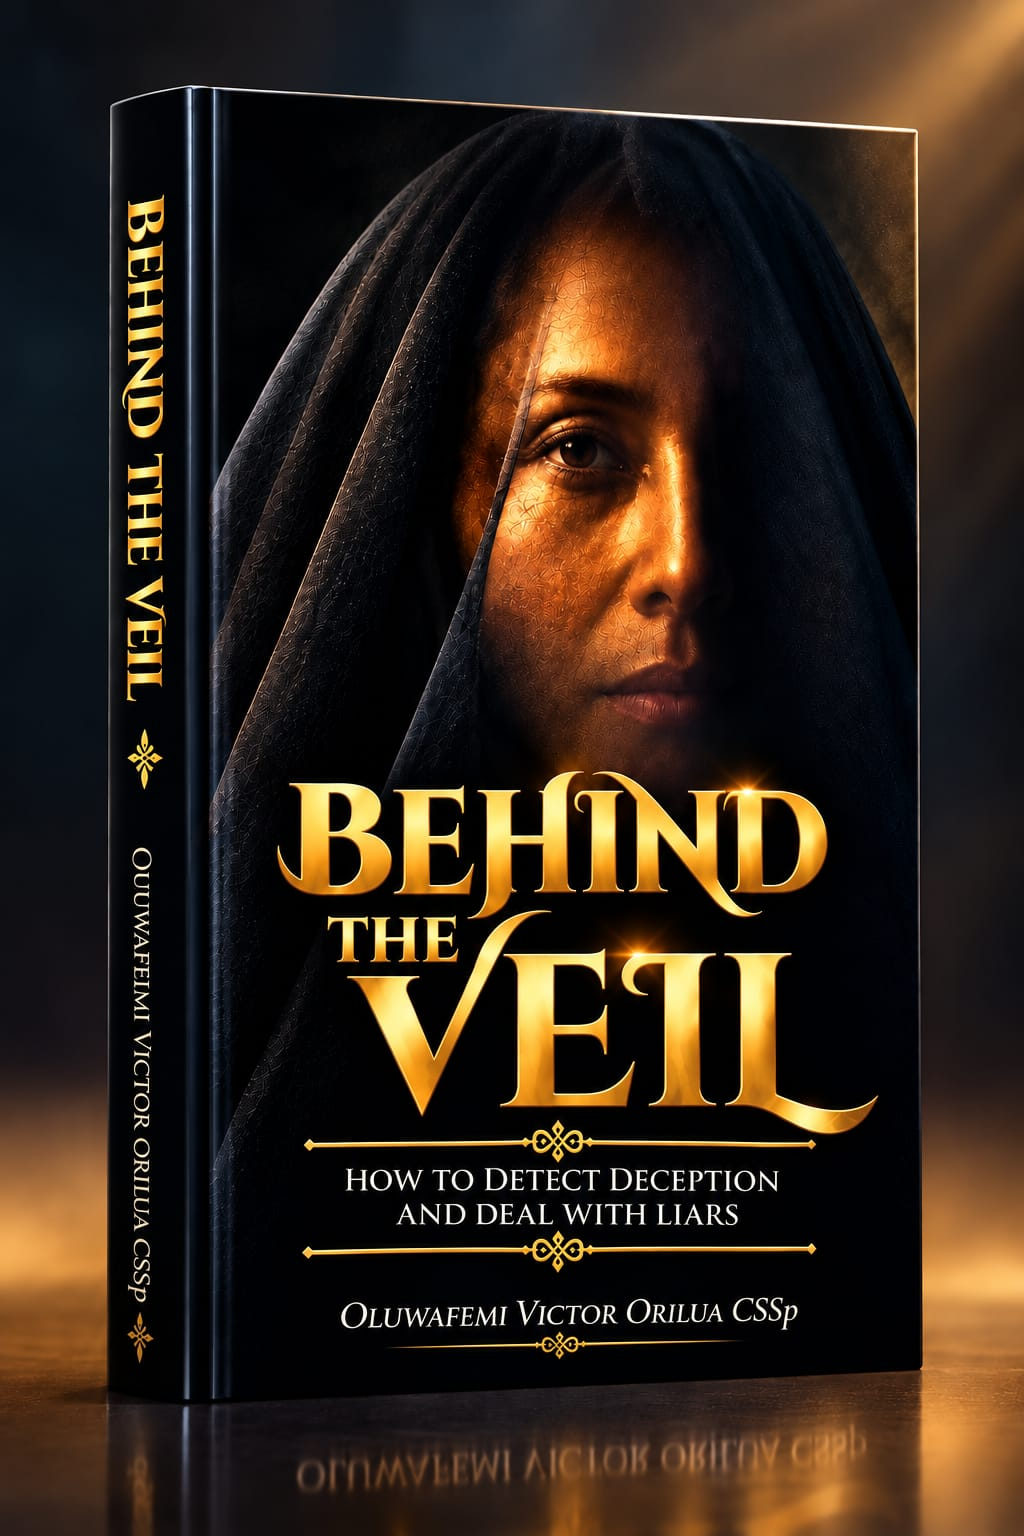
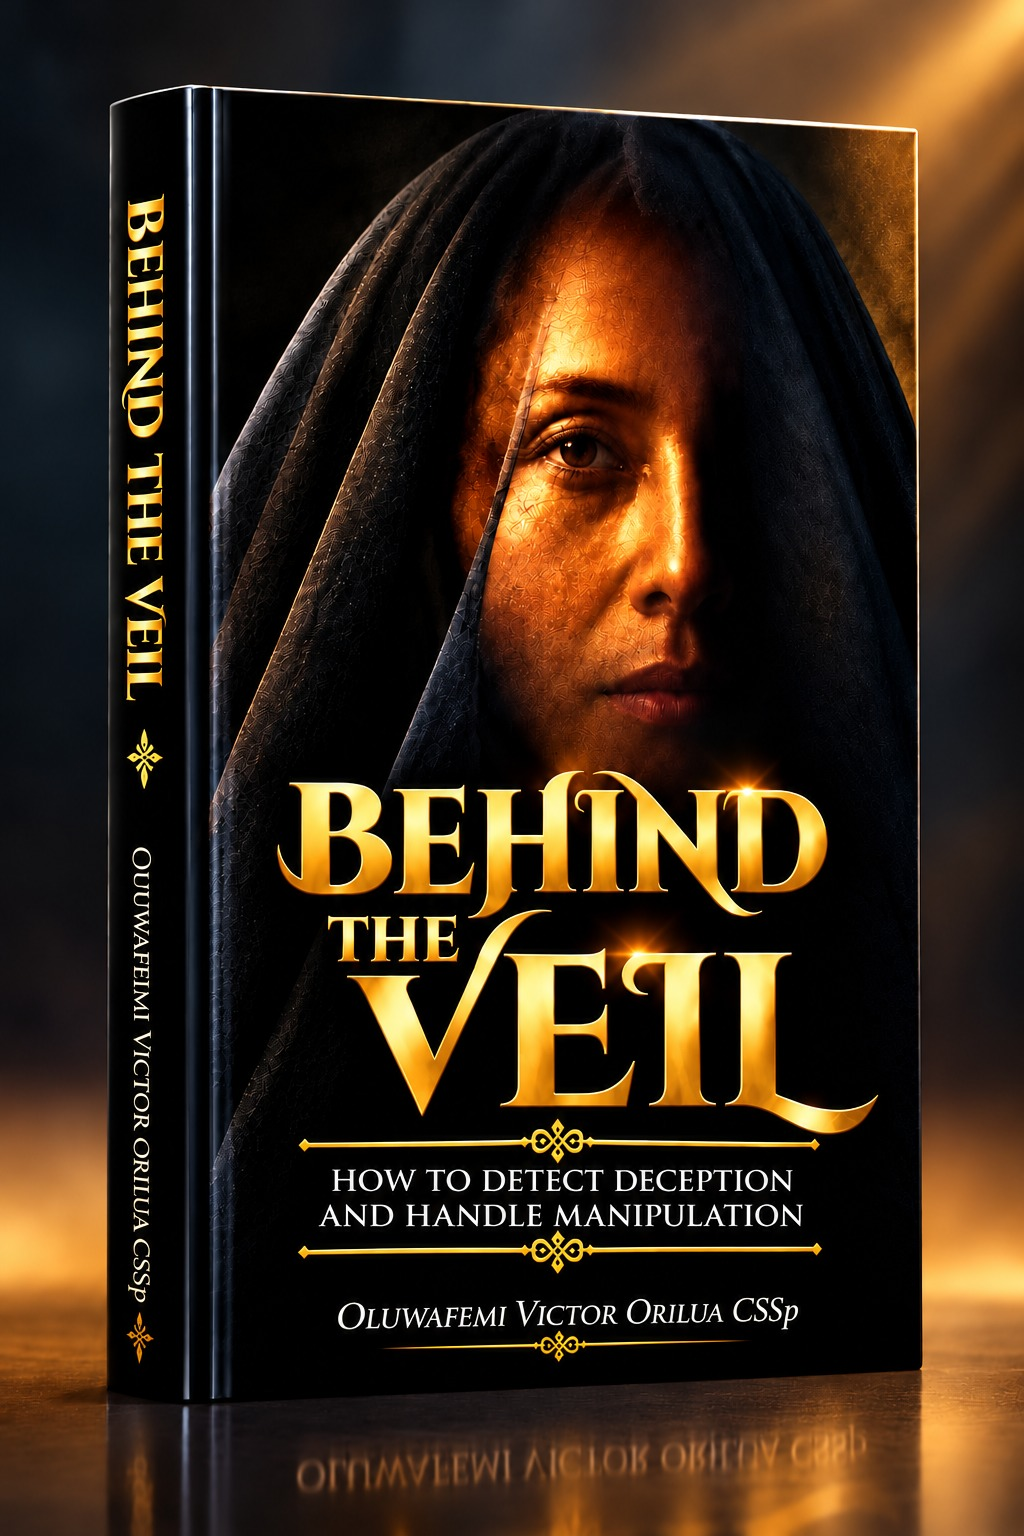
updated author cover and mild text from liar to manipulation

diff --git a/config/behindTheVeil.ts b/config/behindTheVeil.ts
@@ -130,7 +130,7 @@ export const btvConfig = {
   /* ------------------------------------------------------------------ book */
   book: {
     title: 'Behind the Veil',
-    subtitle: 'How to Detect Deception and Deal with Liars',
+    subtitle: 'How to Detect Deception and Handle Manipulation',
     author: 'Fr. Oluwafemi Victor Orilua, CSSp',
     heroTitleTop: 'Behind',
     heroTitleAccent: 'the Veil',
@@ -139,7 +139,7 @@ export const btvConfig = {
       'A pastoral and psychological guide to seeing clearly — for anyone who has ever sensed that something was wrong long before they could name it.',
     coverImage: '/images/behind-the-veil/behind-the-veil-front-cover.jpeg',
     coverAlt:
-      'Behind the Veil: How to Detect Deception and Deal with Liars by Oluwafemi Victor Orilua CSSp',
+      'Behind the Veil: How to Detect Deception and Handle Manipulation by Oluwafemi Victor Orilua CSSp',
     coverIsPlaceholder: false,
     description: [
       'Behind the Veil is a careful, unhurried look at one of the oldest wounds in human relationship: being lied to by someone you trusted.',
@@ -421,7 +421,7 @@ export const btvConfig = {
 
   /* ------------------------------------------------------------------- seo */
   seo: {
-    title: 'Behind the Veil: How to Detect Deception and Deal with Liars | Spiritans Sound',
+    title: 'Behind the Veil: How to Detect Deception and Handle Manipulation | Spiritans Sound',
     description:
       'Discover Behind the Veil by Fr. Oluwafemi Victor Orilua, CSSp — a thought-provoking book exploring deception, dishonesty, relationships, trust and discernment.',
     canonical: 'https://www.spiritanssound.com/unveiler/books/behind-the-veil',

diff --git a/app/(frontend)/unveiler/books/page.tsx b/app/(frontend)/unveiler/books/page.tsx
@@ -108,7 +108,7 @@ export default async function BooksPage() {
                   Behind the Veil
                 </h2>
                 <p className="text-sm sm:text-base text-gray-300 font-serif italic mt-1">
-                  How to Detect Deception and Deal with Liars
+                  How to Detect Deception and Handle Manipulation
                 </p>
                 <p className="text-xs text-gray-400 uppercase tracking-widest mt-1">
                   By Fr. Oluwafemi Victor Orilua, CSSp

diff --git a/app/(frontend)/unveiler/books/behind-the-veil/page.tsx b/app/(frontend)/unveiler/books/behind-the-veil/page.tsx
@@ -24,7 +24,7 @@ export async function generateMetadata(): Promise<Metadata> {
   }
 
   const title = launchSettings?.bookTitle 
-    ? `${launchSettings.bookTitle}: How to Detect Deception and Deal with Liars | Spiritans Sound`
+    ? `${launchSettings.bookTitle}: How to Detect Deception and Handle Manipulation | Spiritans Sound`
     : btvConfig.seo.title;
   const description = btvConfig.seo.description;
 
